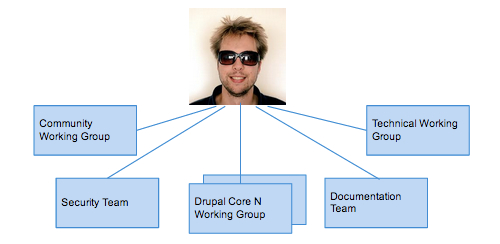
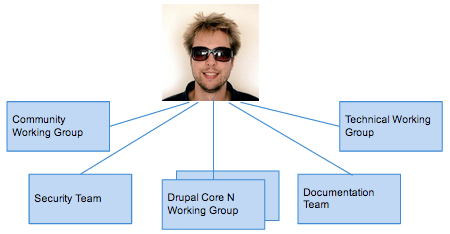
Slides format corrected

diff --git a/slides/002-drupal-projects-community.tex b/slides/002-drupal-projects-community.tex
@@ -4,19 +4,19 @@
 \begin{frame}[allowframebreaks]
 \frametitle{Drupal Community}
 
-"Drupal is more than software - it is a project and a community."
+"Drupal is more than software - it is a project and a community." \linebreak
+
 "So fostering the Drupal community is actually more important than just managing the code base."
-- Dries Buytaert
 
-[Community]
+ \hfill - Dries Buytaert
 
-groups.drupal.org provides a place for groups to:
+\textbf{[ Community ]}
 
-    \begin{itemize}
-	    \item organize
-	    \item meet
-	    \item work on projects based on interest or geographic location
-	\end{itemize}
+\emph{groups.drupal.org} provides a place for groups to: \\
+- organize \\
+- meet \\
+- work on projects based on interest or geographic location \linebreak
+
 	
 Events \& Meetups, Chat (IRC), Planet Drupal, Community Spotlight, Commercial Support, Forum, Mailing Lists, 'Drupal Association'.
 

diff --git a/slides/002-drupal-candidates-requirements.tex b/slides/002-drupal-candidates-requirements.tex
@@ -5,9 +5,15 @@
 \frametitle{Candidate's Requirements}
 
     \begin{itemize}
-    	\item High-priority initiatives (project security issues)
-    	\item Contributors Tasks: Translate user interface text \linebreak
-    	- Skills needed: Fluency in both English and a non-English language.
+    	\item High-priority initiatives\\
+    	- Project security and quality issues\\
+    	
+    	\item Contributors Tasks\linebreak
+    	- \textbf{Task:} translate user interface text\\
+    	- \textbf{Skills:} fluency in both English and a non-English language\linebreak
+    	
+    	- \textbf{Task:} front-end web developer\\
+    	- \textbf{Skills:} experience in HTML, CSS and JavaScript/jQuery web development, cross-browser/device/platform testing..
 	\end{itemize}
 
 \end{frame}

diff --git a/slides/001-drupal-about.tex b/slides/001-drupal-about.tex
@@ -6,12 +6,14 @@
 
 \begin{itemize}
 	\item FLOSS (GNU GPL) CMS: \linebreak
-	Organize, Manage, Publish and Customize Content
-	\item 'Dries Buytaert' began the Drupal software in 1999
-	\linebreak 
-	\includegraphics[width=0.3in]{DriesBuytaert.png}
+	- Organize\linebreak
+	- Manage\linebreak
+	- Publish\linebreak
+	- Customize Content
+	\item 'Dries Buytaert' began the Drupal software in 1999\\
+	\includegraphics[width=0.6in, center]{DriesBuytaert.png}
 	\item Maintained and developed by a community of 630,000+ users and developers
-	\item United Nations, World Bank and European Space Agency use Drupal
+	\item UN, World Bank and European Space Agency use Drupal
 \end{itemize}
 
 \end{frame}

diff --git a/slides/001-drupal-principles.tex b/slides/001-drupal-principles.tex
@@ -5,15 +5,17 @@
 \frametitle{Drupal project's principles}
 
 \begin{itemize}
-	\item Modularity and extensibility
-	\item Standards-based
+	\item Modularity and extensibility \\
+	- Aims to provide a slim powerful core
+	\item Standards-based \\
+	- Considering emerging technologies like XHTML and CSS
 	\item Quality coding \linebreak
-	- low resource demands, performance
+	- Low resource demands, performance
 	% for example, minimizing database queries
 	\item Open source \linebreak
-	- collaboration
+	- Collaboration
 	\item Ease of use \linebreak
-	- Usability for Developers, Administrators, and Users
+	- Usability for developers, administrators, and users
 \end{itemize}
 
 \end{frame}

diff --git a/slides/003-drupal-policies-internal-organization.tex b/slides/003-drupal-policies-internal-organization.tex
@@ -4,6 +4,6 @@
 \begin{frame}[allowframebreaks]
 \frametitle{Main policies and internal organization}
 
-\includegraphics[]{drupal-project-governance-2013.png}
+\includegraphics[width=\textwidth,center]{drupal-project-governance-2013.png}
 
 \end{frame}

diff --git a/slides/002-drupal-main-roles.tex b/slides/002-drupal-main-roles.tex
@@ -4,7 +4,7 @@
 \begin{frame}[allowframebreaks]
 \frametitle{Drupal Main Roles}
 
-[Contributors/Volunteers]
+\textbf{[ Contributors/Volunteers ]}
 
     \begin{itemize}
     	\item Code Developing
